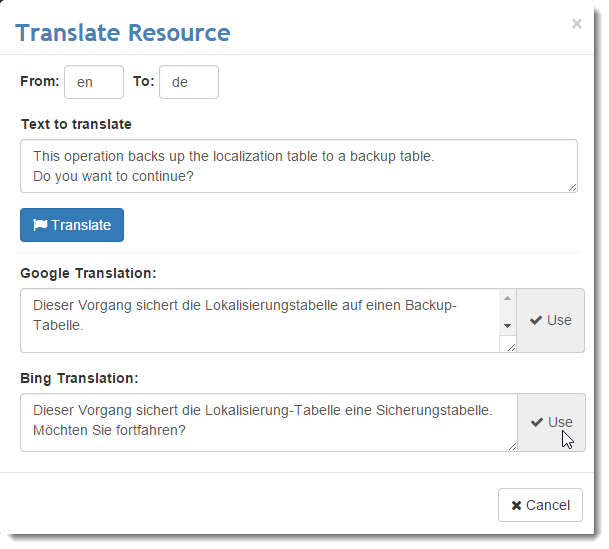
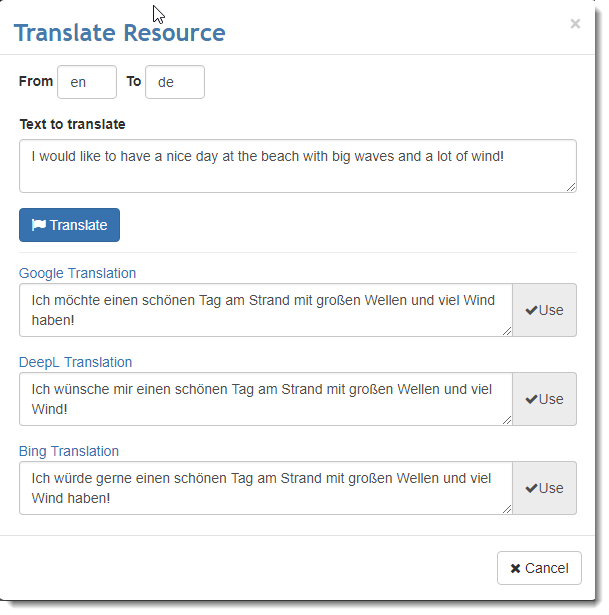
3.0.0-rc2

diff --git a/src/NetCore/WestWind.Globalization.Sample.AspNetCore/wwwroot/LocalizationAdmin/Partials/TranslateDialog.html b/src/NetCore/WestWind.Globalization.Sample.AspNetCore/wwwroot/LocalizationAdmin/Partials/TranslateDialog.html
@@ -51,7 +51,7 @@
 
                         <textarea class="form-control" ng-model="view.deeplTranslation" placeholder="Translated text"></textarea>
                         <span class=" input-group-addon"
-                              ng-click="view.useTranslateClick('bing')"><i class="fa fa-check"></i>{{::view.dbRes('Use')}}</span>
+                              ng-click="view.useTranslateClick('deepl')"><i class="fa fa-check"></i>{{::view.dbRes('Use')}}</span>
                     </div>
                 </div>
 

diff --git a/src/NetCore/WestWind.Globalization.Sample.AspNetCore/wwwroot/LocalizationAdmin/app/listController.js b/src/NetCore/WestWind.Globalization.Sample.AspNetCore/wwwroot/LocalizationAdmin/app/listController.js
@@ -351,7 +351,6 @@
             if (files && files.length) {
                 for (var i = 0; i < files.length; i++) {
                     var file = files[i];
-                    debugger;
                     $upload.upload({
                         url: '../api/LocalizationAdministration/UploadResource',
                             fields: { 'resourceset': vm.activeResource.ResourceSet, 'resourceid': vm.activeResource.ResourceId, "localeid": vm.activeResource.LocaleId },

diff --git a/Readme.md b/Readme.md
@@ -1,7 +1,7 @@
 # West Wind Globalization
 ### Database Resource Localization for .NET
 
-> ### Version 3.0 status is:RC1
+> ### Version 3.0 status is: RC1
 > Version 3.0 is currently in RC stage and the documentation is still under construction. We're feature complete and fully operational and getting close to a final release. Please bear with us.
 
 This library and tooling provides easy to use database resource managers and providers that allow you to use a database for storing localization resources. Unlike static Resx resources, database resources are dynamic, can be changed at runtime and are editable by multiple users at the same time. The custom resource managers, providers and ASP.NET Core StringLocalizer  use the standard .NET resource infrastructure, so other than startup configuration there are no code changes when switching from using traditional Resx resources. 
@@ -288,6 +288,7 @@ You also need to explicitly enable localization features in ASP.NET Core using t
 public void ConfigureServices(IServiceCollection services)
 {
     // Standard ASP.NET Localization features are recommended
+    // Make sure this is done FIRST!
     services.AddLocalization(options =>
     {
         // I prefer Properties over the default `Resources` folder
@@ -295,14 +296,17 @@ public void ConfigureServices(IServiceCollection services)
         // most people do for shared resources.
         options.ResourcesPath = "Properties";
     });
-
-
-    // Optional but recommended:  Override IStringLocalizer to use DbRes instances
-    services.AddSingleton(typeof(IStringLocalizerFactory), typeof(DbResStringLocalizerFactory));
-    services.AddSingleton(typeof(IHtmlLocalizerFactory), typeof(DbResHtmlLocalizerFactory));
     
-     
-    // Required: this enables West Wind Globalization
+
+    // Replace StringLocalizers with Db Resource Implementation
+    services.AddSingleton(typeof(IStringLocalizerFactory), 
+                          typeof(DbResStringLocalizerFactory));
+    services.AddSingleton(typeof(IHtmlLocalizerFactory),
+                          typeof(DbResHtmlLocalizerFactory));
+                          
+    
+    // Required: Enable Westwind.Globalization (opt parm is optional)
+    // shown here with optional manual configuration code
     services.AddWestwindGlobalization(opt =>
     {                
         // the default settings comme from DbResourceConfiguration.json if exists
@@ -310,11 +314,14 @@ public void ConfigureServices(IServiceCollection services)
         // to the DI system (DbResourceConfiguration)
 
         // Resource Mode - from Database (or Resx for serving from Resources)
-        opt.ResourceAccessMode = ResourceAccessMode.DbResourceManager;  // ResourceAccessMode.Resx
+        opt.ResourceAccessMode = ResourceAccessMode.DbResourceManager;  // .Resx
         
         // Make sure the database you connect to exists
-        opt.ConnectionString = "server=dev.west-wind.com;database=localizations;uid=localizations;pwd=local";
+        opt.ConnectionString = "server=.;database=localizations;uid=localizations;pwd=local";
         
+        // Database provider used - Sql Server is the default
+        opt.DataProvider = DbResourceProviderTypes.SqlServer;
+
         // The table in which resources are stored
         opt.ResourceTableName = "localizations";
         
@@ -330,6 +337,8 @@ public void ConfigureServices(IServiceCollection services)
 
     });
 
+    ...
+    
     services.AddMvc();
 }
 ```

diff --git a/ChangeLog.md b/ChangeLog.md
@@ -9,6 +9,12 @@ Westwind.Globalization now works on .NET Core and ASP.NET Core. We now provide f
 * **Updated Localization Admin UI for ASP.NET Core**   
 The Localization Admin application has been updated to work with a ASP.NET Core MVC controller on the backend. The ASP.NET 4.5+ continues to use `[CallbackHandler]` for compactness and doesn't have a dependency on MVC or WebAPI. The .NET Core version has a number of small UI updates.
 
+* **Easier saving of Resources without explicit save operations**  
+Make resource entry easier by not requiring explicit saving of resources. Just tabbing across fields saves values now.
+
+* **Add DeepL Translation Service**   
+Added the [DeepL](https://www.deepl.com/translator) Translation service to the translation helpers.
+
 * **DataProvider Configuration Switch**   
 You can now set the database provider used as part of configuration using the `DataProvider` configuration option. Specify `SqlServer`, `SqLite`, `MySql` or `SqlCompact` (full framework only) as part of configuration. This setting can now be set via configuration switch rather than requiring explicitly setting the `DbResourceManagerType` property in code. The new setting simply delegates to `DbResourceManagerType` so you can still set that manually to change providers as well.
 
